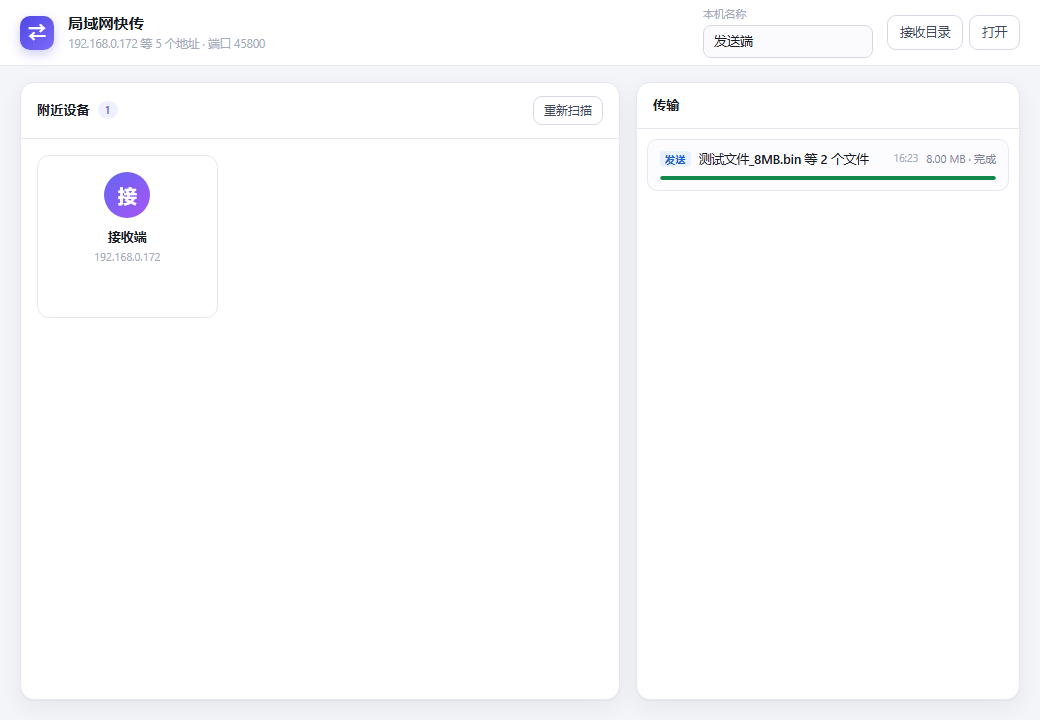
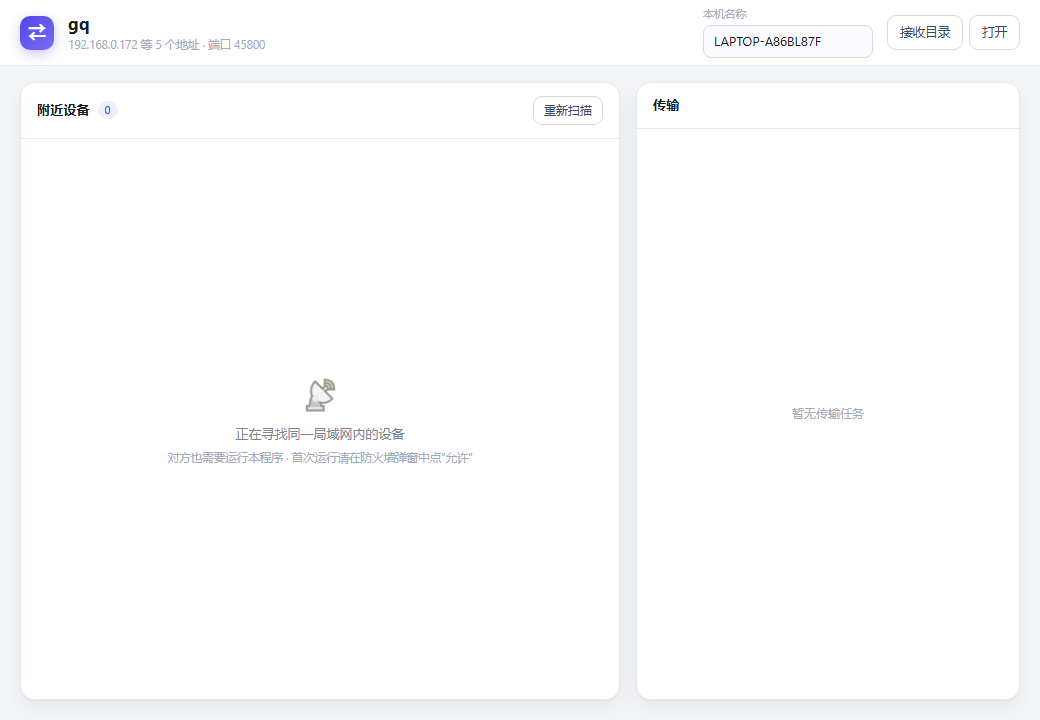
refactor: rename product to gq
Display name, window title, page title and the default receive folder are
now "gq" instead of 局域网快传. Configs whose recvDir still equals the old
default are migrated on load, so upgraded installs stop writing into a
folder named after the old product.

The exe and config filenames stay lantransfer.* deliberately: the inbound
firewall rule users already created is bound to that exact path, and
renaming the binary would silently re-block discovery and transfers.

Also centre the empty states - an empty list kept its flex share and pushed
the placeholder text to the bottom of the panel.

diff --git a/internal/ui/assets/app.js b/internal/ui/assets/app.js
@@ -91,6 +91,7 @@ function renderPeers(peers) {
 
   $('#peerCount').textContent = String(peers.length);
   $('#peerEmpty').classList.toggle('hidden', peers.length > 0);
+  grid.classList.toggle('is-empty', peers.length === 0);
 }
 
 $('#peerGrid').addEventListener('click', async (e) => {
@@ -180,6 +181,7 @@ function renderTransfers(list) {
     if (!seen.has(el.dataset.tid)) el.remove();
   });
   $('#transEmpty').classList.toggle('hidden', list.length > 0);
+  wrap.classList.toggle('is-empty', list.length === 0);
 }
 
 /* ---------------- inbound offer ---------------- */
@@ -277,7 +279,7 @@ $('#bannerClose').addEventListener('click', () => {
 /* ---------------- main loop ---------------- */
 
 function render(s) {
-  document.title = s.self.name + ' · 局域网快传';
+  document.title = s.self.name + ' · gq';
 
   // Five addresses on a multi-homed box would blow up the header; show the
   // primary one and put the full list in the tooltip.

diff --git a/internal/ui/assets/style.css b/internal/ui/assets/style.css
@@ -62,9 +62,9 @@ body {
 
 .brand h1 {
   margin: 0;
-  font-size: 15px;
-  font-weight: 650;
-  letter-spacing: .2px;
+  font-size: 17px;
+  font-weight: 700;
+  letter-spacing: .4px;
 }
 
 .brand .sub {
@@ -394,6 +394,11 @@ main {
 .trans.error .bar > i { background: var(--err); }
 
 /* ---------- empty ---------- */
+
+/* An empty list must not keep its flex share, otherwise the sibling empty
+   state gets pushed to the bottom of the panel instead of centring. */
+.peer-grid.is-empty,
+.trans-list.is-empty { display: none; }
 
 .empty {
   flex: 1 1 auto;

diff --git a/internal/ui/assets/index.html b/internal/ui/assets/index.html
@@ -3,7 +3,7 @@
 <head>
 <meta charset="utf-8">
 <meta name="viewport" content="width=device-width, initial-scale=1">
-<title>局域网快传</title>
+<title>gq</title>
 <link rel="stylesheet" href="style.css">
 </head>
 <body>
@@ -11,7 +11,7 @@
 <header class="topbar">
   <div class="logo">⇄</div>
   <div class="brand">
-    <h1>局域网快传</h1>
+    <h1>gq</h1>
     <div class="sub" id="selfIps">—</div>
   </div>
 

diff --git a/internal/config/config.go b/internal/config/config.go
@@ -53,7 +53,7 @@ func resolvePath() string {
 	if err != nil {
 		return "lantransfer.json"
 	}
-	d := filepath.Join(ad, "LanTransfer")
+	d := filepath.Join(ad, "gq")
 	_ = os.MkdirAll(d, 0o755)
 	return filepath.Join(d, "config.json")
 }
@@ -96,6 +96,12 @@ func Load() (*Config, error) {
 	}
 	if c.RecvDir == "" {
 		c.RecvDir = defaultRecvDir()
+	} else if home, err := os.UserHomeDir(); err == nil {
+		// v0.1 defaulted to a folder named after the old product name; follow
+		// the rename rather than keep writing there after an upgrade.
+		if c.RecvDir == filepath.Join(home, "Downloads", "局域网快传") {
+			c.RecvDir = defaultRecvDir()
+		}
 	}
 	_ = c.Save()
 	return &c, nil
@@ -149,5 +155,5 @@ func defaultRecvDir() string {
 	if err != nil {
 		return "downloads"
 	}
-	return filepath.Join(home, "Downloads", "局域网快传")
+	return filepath.Join(home, "Downloads", "gq")
 }

diff --git a/window_windows.go b/window_windows.go
@@ -19,7 +19,7 @@ func openWindow(url string) bool {
 		Debug:     false,
 		AutoFocus: true,
 		WindowOptions: webview2.WindowOptions{
-			Title:  "局域网快传",
+			Title:  "gq",
 			Width:  1040,
 			Height: 720,
 			Center: true,
@@ -51,7 +51,7 @@ func logWebView2State() {
 // bar and tabs, so the fallback still looks like an application window rather
 // than a page in a browser.
 func openBrowser(url string) {
-	prof := filepath.Join(os.Getenv("LOCALAPPDATA"), "LanTransfer", "browser")
+	prof := filepath.Join(os.Getenv("LOCALAPPDATA"), "gq", "browser")
 	_ = os.MkdirAll(prof, 0o755)
 
 	cands := []string{

diff --git a/main.go b/main.go
@@ -42,7 +42,7 @@ func setupLog() {
 			log.SetOutput(os.Stderr)
 			return
 		}
-		d := filepath.Join(ad, "LanTransfer")
+		d := filepath.Join(ad, "gq")
 		os.MkdirAll(d, 0o755)
 		f, err = os.OpenFile(filepath.Join(d, "lantransfer.log"), os.O_CREATE|os.O_WRONLY|os.O_APPEND, 0o644)
 		if err != nil {

diff --git a/README.md b/README.md
@@ -1,4 +1,4 @@
-# 局域网快传
+# gq
 
 Windows 局域网文件互传工具。**单个 exe，双击即用，无需安装、无需账号、不联网。**
 
@@ -9,13 +9,13 @@ Windows 局域网文件互传工具。**单个 exe，双击即用，无需安装
 3. 首次运行 Windows 会弹防火墙提示，**必须点"允许"**，否则对方发现不了你。
 4. 看到对方设备后，点击卡片 → 选文件 → 对方点"接收"。
 
-接收的文件默认落在 `%USERPROFILE%\Downloads\局域网快传\<发送者>_<月日-时分秒>\`，可在顶栏改。
+接收的文件默认落在 `%USERPROFILE%\Downloads\gq\<发送者>_<月日-时分秒>\`，可在顶栏改。
 
 ## 便携性
 
 - **分发只有一个文件**：`lantransfer.exe`（7.8 MB），复制到任意 Win10/11 机器双击即用。
 - 导入表只有 `kernel32.dll`：无第三方 DLL、无 VC++ 运行库、无安装包。
-- 首次运行会在 exe 同目录生成 `lantransfer.json`（约 120 字节）和 `lantransfer.log`；目录不可写时自动改用 `%APPDATA%\LanTransfer\`。
+- 首次运行会在 exe 同目录生成 `lantransfer.json`（约 120 字节）和 `lantransfer.log`；目录不可写时自动改用 `%APPDATA%\gq\`。
 - **把整个文件夹拷到另一台电脑会自动更换设备 ID**（配置里记录主机名）。否则两台机器共用同一个 ID，发现时会把对方当成"自己"而互相看不见。
 - 唯一外部依赖是系统的 **WebView2 Runtime**（Win10/11 自带）。缺失时退回系统浏览器打开界面，功能不受影响。
 

diff --git a/docs/架构设计.md b/docs/架构设计.md
@@ -100,9 +100,9 @@ PendingOffer ──接受──▶ Session ──每个文件开始时刷新 Dea
 
 | 项 | 位置 | 回退 |
 |---|---|---|
-| 配置 | exe 同目录 `lantransfer.json` | `%APPDATA%\LanTransfer\config.json` |
+| 配置 | exe 同目录 `lantransfer.json` | `%APPDATA%\gq\config.json` |
 | 日志 | exe 同目录 `lantransfer.log` | 同上目录 |
-| 接收目录 | `%USERPROFILE%\Downloads\局域网快传` | 可在 UI 改 |
+| 接收目录 | `%USERPROFILE%\Downloads\gq` | 可在 UI 改 |
 
 配置写入用「临时文件 + rename」，避免断电写坏。
 
